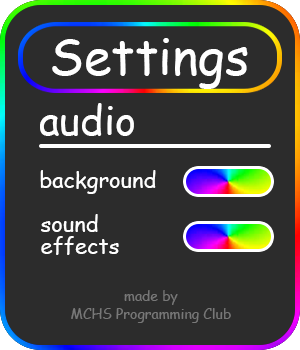
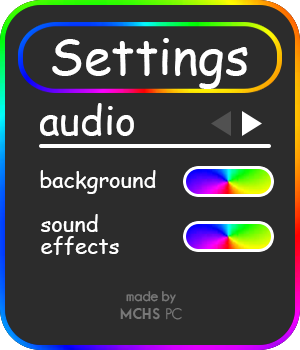
Added difficulty settings

Changed region(s): [[0.24, 0.8286, 0.78, 0.9429], [0.69, 0.3143, 0.87, 0.4]]

diff --git a/core/src/com/mygdx/game/Settings.java b/core/src/com/mygdx/game/Settings.java
@@ -3,11 +3,7 @@ package com.mygdx.game;
 import com.badlogic.gdx.Gdx;
 import com.badlogic.gdx.Input;
 import com.badlogic.gdx.graphics.Texture;
-import com.badlogic.gdx.InputProcessor;
 
-import javax.swing.*;
-import java.awt.event.MouseEvent;
-import java.awt.event.MouseListener;
 import java.io.File;
 
 /**
@@ -26,12 +22,34 @@ public class Settings{
     int menux = ((1280-menuwidth)/2);
     int menuheight=350;
     int menuy = ((720-menuheight)/2);
+
     int buttonx=menux+183;
     int buttonxlim=buttonx+90;
     int bgmutey= menuy+165;
     int bgmuteylim=menuy+196;
     int sfxmutey= menuy+220;
     int sfxmuteylim=menuy+251;
+
+    int pgselecty= menuy+110;
+    int pgselectylim = menuy+135;
+    int pgbackx = menux+210;
+    int pgbackxlim = menux+230;
+    int pgfwdx = menux+241;
+    int pgfwdxlim = menux+261;
+
+    int diffx = menux+44;
+    int diffxlim = menux+159;
+    int easyy = menuy+164;
+    int easyylim = menuy+184;
+    int mediumy = menuy+207;
+    int mediumylim = menuy+227;
+    int hardy = menuy+252;
+    int hardylim = menuy+272;
+
+    int pagenumber=1;
+    int numberofpages = 2;
+
+    int difficulty = 2;
 
     static boolean bgmuted=false;
     static boolean sfxmuted=false;
@@ -41,14 +59,20 @@ public class Settings{
     Texture sfxmute = new Texture("Settings"+ File.separator+"SFXmute.png");
     Texture sfxunmute = new Texture("Settings"+ File.separator+"SFXunmute.png");
     Texture menu = new Texture("Settings"+ File.separator+"bg.png");
+    Texture menu2 = new Texture("Settings"+ File.separator+"bg2.png");
 
+    Texture easy = new Texture("Settings"+ File.separator+"easy.png");
+    Texture medium = new Texture("Settings"+ File.separator+"medium.png");
+    Texture hard = new Texture("Settings"+ File.separator+"hard.png");
 
     public void update(){
+
+        //Toggles Settings
         if(Gdx.input.justTouched()) {
             //System.out.println("DANKY SETTINGS TEST");
             if ((Gdx.input.getX() > x) && (Gdx.input.getX() < (x + width))){
                 if((Gdx.input.getY()<y)&&(Gdx.input.getY()<(y+height))){
-                    System.out.println("DANKY SETTINGS ACTIVE");
+                    System.out.println("DANKY SETTINGS TOGGLED");
                     if(!showSettings){
                         showSettings=true;
                     }else if(showSettings){
@@ -57,33 +81,81 @@ public class Settings{
                 }
             }
             if(showSettings){
-                if ((Gdx.input.getX() > buttonx) && (Gdx.input.getX() < (buttonxlim))){
-                    if((Gdx.input.getY()>bgmutey)&&(Gdx.input.getY()<(bgmuteylim))){
-                        System.out.println("BG music toggled");
-                        if(!bgmuted){
-                            bgmuted=true;
-//                            musicbg.soundEnabled=false;
-//                            System.out.println(musicbg.soundEnabled);
-                        }else if(bgmuted){
-                            bgmuted=false;
-//                            musicbg.soundEnabled=true;
-//                            System.out.println(musicbg.soundEnabled);
+
+                if ((Gdx.input.getY() > pgselecty) && (Gdx.input.getY() < (pgselectylim))) {
+
+                    //Page Forward
+                    if ((Gdx.input.getX() > pgfwdx) && (Gdx.input.getX() < (pgfwdxlim))) {
+                        System.out.println("Page Forward");
+                        if (pagenumber<numberofpages) {
+                            pagenumber++;
                         }
                     }
-                    if((Gdx.input.getY()>sfxmutey)&&(Gdx.input.getY()<(sfxmuteylim))){
-                        System.out.println("SFX music toggled");
-                        if(!sfxmuted){
-                            sfxmuted=true;
-//                            musicbg.soundEnabled=false;
-//                            System.out.println(musicbg.soundEnabled);
-                        }else if(sfxmuted){
-                            sfxmuted=false;
-//                            musicbg.soundEnabled=true;
-//                            System.out.println(musicbg.soundEnabled);
+
+                    //Page Back
+                    if ((Gdx.input.getX() > pgbackx) && (Gdx.input.getX() < (pgbackxlim))) {
+                        System.out.println("Page Back");
+                        if (pagenumber>1) {
+                            pagenumber--;
                         }
                     }
                 }
+                if(pagenumber==1) {
+                    //Toggle background music
+                    if ((Gdx.input.getX() > buttonx) && (Gdx.input.getX() < (buttonxlim))) {
+                        if ((Gdx.input.getY() > bgmutey) && (Gdx.input.getY() < (bgmuteylim))) {
+                            System.out.println("BG music toggled");
+                            if (!bgmuted) {
+                                bgmuted = true;
+//                            musicbg.soundEnabled=false;
+//                            System.out.println(musicbg.soundEnabled);
+                            } else if (bgmuted) {
+                                bgmuted = false;
+//                            musicbg.soundEnabled=true;
+//                            System.out.println(musicbg.soundEnabled);
+                            }
+                        }
 
+                        //Toggle sfx
+                        if ((Gdx.input.getY() > sfxmutey) && (Gdx.input.getY() < (sfxmuteylim))) {
+                            System.out.println("SFX music toggled");
+                            if (!sfxmuted) {
+                                sfxmuted = true;
+//                            musicbg.soundEnabled=false;
+//                            System.out.println(musicbg.soundEnabled);
+                            } else if (sfxmuted) {
+                                sfxmuted = false;
+//                            musicbg.soundEnabled=true;
+//                            System.out.println(musicbg.soundEnabled);
+                            }
+                        }
+                    }
+                }
+                if(pagenumber==2){
+                    if ((Gdx.input.getX() > diffx) && (Gdx.input.getX() < (diffxlim))) {
+                        System.out.println("XXXXXXXX");
+                        //Set game to easy
+                        if ((Gdx.input.getY() > easyy) && (Gdx.input.getY() < (easyylim))) {
+                            System.out.println("Game set to easy");
+                            difficulty=1;
+                            Constant.pipenumber=2;
+                        }
+
+                        //Set game to medium
+                        if ((Gdx.input.getY() > mediumy) && (Gdx.input.getY() < (mediumylim))) {
+                            System.out.println("Game set to medium");
+                            difficulty=2;
+                            Constant.pipenumber=3;
+                        }
+
+                        //Set game to hard
+                        if ((Gdx.input.getY() > hardy) && (Gdx.input.getY() < (hardylim))) {
+                            System.out.println("Game set to hard");
+                            difficulty=3;
+                            Constant.pipenumber=4;
+                        }
+                    }
+                }
             }
         }
     }

diff --git a/core/src/com/mygdx/game/GameScreen.java b/core/src/com/mygdx/game/GameScreen.java
@@ -98,7 +98,15 @@ public class GameScreen implements Screen {
             entity.entities.add(pipetops[i]);
         }
 
+        if(setting.difficulty==1){
+            Constant.pipenumber=2;
+        }else if(setting.difficulty==2){
+            Constant.pipenumber=3;
+        }else if(setting.difficulty==3){
+            Constant.pipenumber=4;
+        }
         pipeSpace=((1280+(pipebts[1].width*(Constant.pipenumber+1)))-(pipebts[1].width*Constant.pipenumber))/Constant.pipenumber;
+
 
         for (int i = 0; i <= (Constant.pipenumber - 1); i++) {
 
@@ -120,6 +128,7 @@ public class GameScreen implements Screen {
 
         pause = new Texture("pause.png");
         bgm.play();
+
     }
 
     //METHODS
@@ -137,7 +146,6 @@ public class GameScreen implements Screen {
         Gdx.gl.glClear(GL20.GL_COLOR_BUFFER_BIT);
 
         game.batch.enableBlending();
-
 
         //game.batch.setProjectionMatrix(gameCam.combined);
         game.batch.begin();
@@ -173,17 +181,31 @@ public class GameScreen implements Screen {
         //Settings
         if(setting.showSettings){
             start.showStart=false;
-            game.batch.draw(setting.menu, setting.menux, setting.menuy, setting.menuwidth, setting.menuheight);
-            if(!setting.bgmuted){
-                game.batch.draw(setting.bgmute, setting.menux, setting.menuy, setting.menuwidth, setting.menuheight);
-            }else if(setting.bgmuted){
-                game.batch.draw(setting.bgunmute, setting.menux, setting.menuy, setting.menuwidth, setting.menuheight);
+            if(setting.pagenumber==1) {
+                game.batch.draw(setting.menu, setting.menux, setting.menuy, setting.menuwidth, setting.menuheight);
+                if(!setting.bgmuted){
+                    game.batch.draw(setting.bgmute, setting.menux, setting.menuy, setting.menuwidth, setting.menuheight);
+                }else if(setting.bgmuted){
+                    game.batch.draw(setting.bgunmute, setting.menux, setting.menuy, setting.menuwidth, setting.menuheight);
+                }
+                if(!setting.sfxmuted){
+                    game.batch.draw(setting.sfxmute, setting.menux, setting.menuy, setting.menuwidth, setting.menuheight);
+                }else if(setting.sfxmuted){
+                    game.batch.draw(setting.sfxunmute, setting.menux, setting.menuy, setting.menuwidth, setting.menuheight);
+                }
+            }else if(setting.pagenumber==2){
+                game.batch.draw(setting.menu2, setting.menux, setting.menuy, setting.menuwidth, setting.menuheight);
             }
-            if(!setting.sfxmuted){
-                game.batch.draw(setting.sfxmute, setting.menux, setting.menuy, setting.menuwidth, setting.menuheight);
-            }else if(setting.sfxmuted){
-                game.batch.draw(setting.sfxunmute, setting.menux, setting.menuy, setting.menuwidth, setting.menuheight);
+            if(setting.pagenumber==2) {
+                if(setting.difficulty==1){
+                    game.batch.draw(setting.easy, setting.menux, setting.menuy, setting.menuwidth, setting.menuheight);
+                }else if(setting.difficulty==2){
+                    game.batch.draw(setting.medium, setting.menux, setting.menuy, setting.menuwidth, setting.menuheight);
+                }else if(setting.difficulty==3){
+                    game.batch.draw(setting.hard, setting.menux, setting.menuy, setting.menuwidth, setting.menuheight);
+                }
             }
+
         }else if(!setting.showSettings){
             start.showStart=true;
         }
@@ -193,6 +215,7 @@ public class GameScreen implements Screen {
         if(start.startGame){
             hud.stage.draw();
         }
+        
 
     }
 
@@ -221,6 +244,8 @@ public class GameScreen implements Screen {
 
     public void update(float delta) {
 
+
+
         if (start.startGame){
             danky.gameStart=true;
             if(setting.showSettings){
@@ -234,11 +259,8 @@ public class GameScreen implements Screen {
         //   gameEnd=true;
 
 
-        if(setting.bgmuted) {
-            bgm.bgmusic.pause();
-        }else if(!setting.bgmuted){
-            bgm.bgmusic.resume();
-        }
+        bgm.update();
+
 
 
         scoretext="Score: "+danky.score;
@@ -271,6 +293,19 @@ public class GameScreen implements Screen {
 
         if(!start.startGame) {
             setting.update();
+            pipeSpace=((1280+(pipebts[1].width*(Constant.pipenumber+1)))-(pipebts[1].width*Constant.pipenumber))/Constant.pipenumber;
+            if(Gdx.input.justTouched()) {
+                if (setting.pagenumber == 2) {
+                    if ((Gdx.input.getX() > setting.diffx) && (Gdx.input.getX() < (setting.diffxlim))) {
+                        for (int i = 0; i <= (Constant.pipenumber - 1); i++) {
+                            //pipebts[i].x = pipebts[i].x + 700;
+                            pipebts[i].x = ((pipeSpace * (i))+500);
+                            pipetops[i].y = pipebts[i].y + 700;
+                            pipetops[i].x = pipebts[i].x;
+                        }
+                    }
+                }
+            }
 
             //Requires make back to original code
 //            for (int i = 0; i <= (Constant.booknumber - 1); i++) {
@@ -361,6 +396,7 @@ public class GameScreen implements Screen {
 
         if (gameEnd) {
             if (Gdx.input.isKeyJustPressed(Input.Keys.ENTER)) {
+                setting.pagenumber=1;
                 danky.score=0;
                 gameEnd = false;
                 danky.qaziAlive=true;

diff --git a/core/src/com/mygdx/game/musicbg.java b/core/src/com/mygdx/game/musicbg.java
@@ -3,6 +3,8 @@ package com.mygdx.game;
 import com.badlogic.gdx.Gdx;
 import com.badlogic.gdx.audio.Sound;
 
+import java.util.Set;
+
 /**
  * Created by ahuja on 3/12/2017.
  */
@@ -16,5 +18,12 @@ public class musicbg {
     }
     public void play(){
             bgmusic.loop(0.5f);
+    }
+    public void update(){
+        if(Settings.bgmuted) {
+            bgmusic.pause();
+        }else if(!Settings.bgmuted){
+            bgmusic.resume();
+        }
     }
 }

diff --git a/core/src/com/mygdx/game/Constant.java b/core/src/com/mygdx/game/Constant.java
@@ -6,7 +6,7 @@ package com.mygdx.game;
 public class Constant {
 
 
-    static int pipenumber = 3;
+    static int pipenumber = 4;
     static int booknumber = 2;
 
     //Distance betwenn = 275
